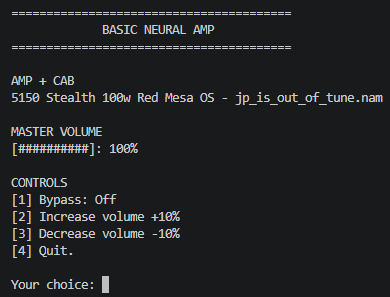
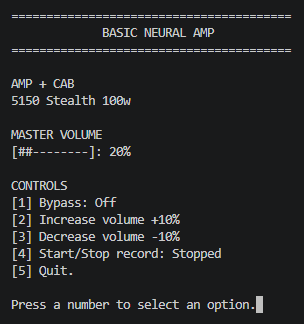
docs: update README and main menu screenshot

diff --git a/README.md b/README.md
@@ -6,6 +6,8 @@ The application provides a small console interface for bypassing the model and a
 
 ![main-menu](images/basic-neural-amp-menu.png)
 
+*Recorded audio clip is a `.wav` file saved in the project root directory.*
+
 ## System Requirements
 
 - Windows 10 or later.
